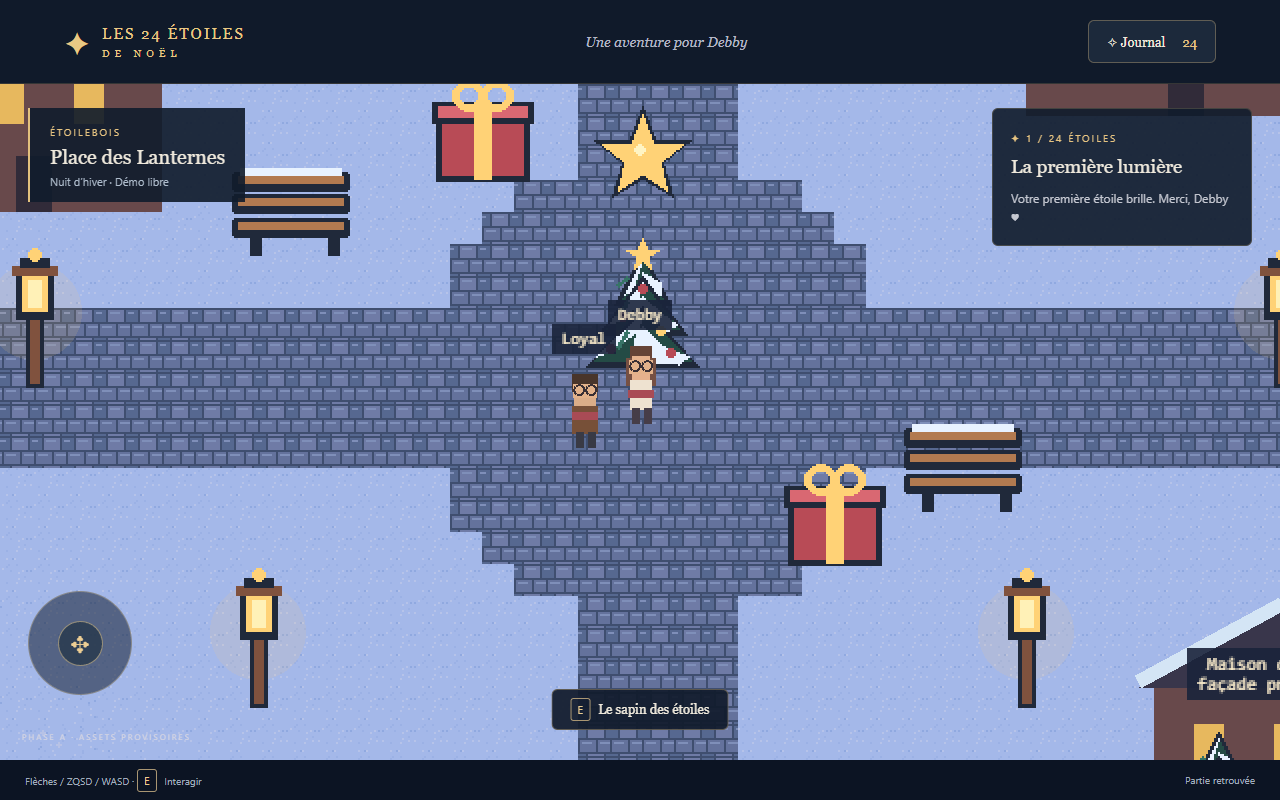
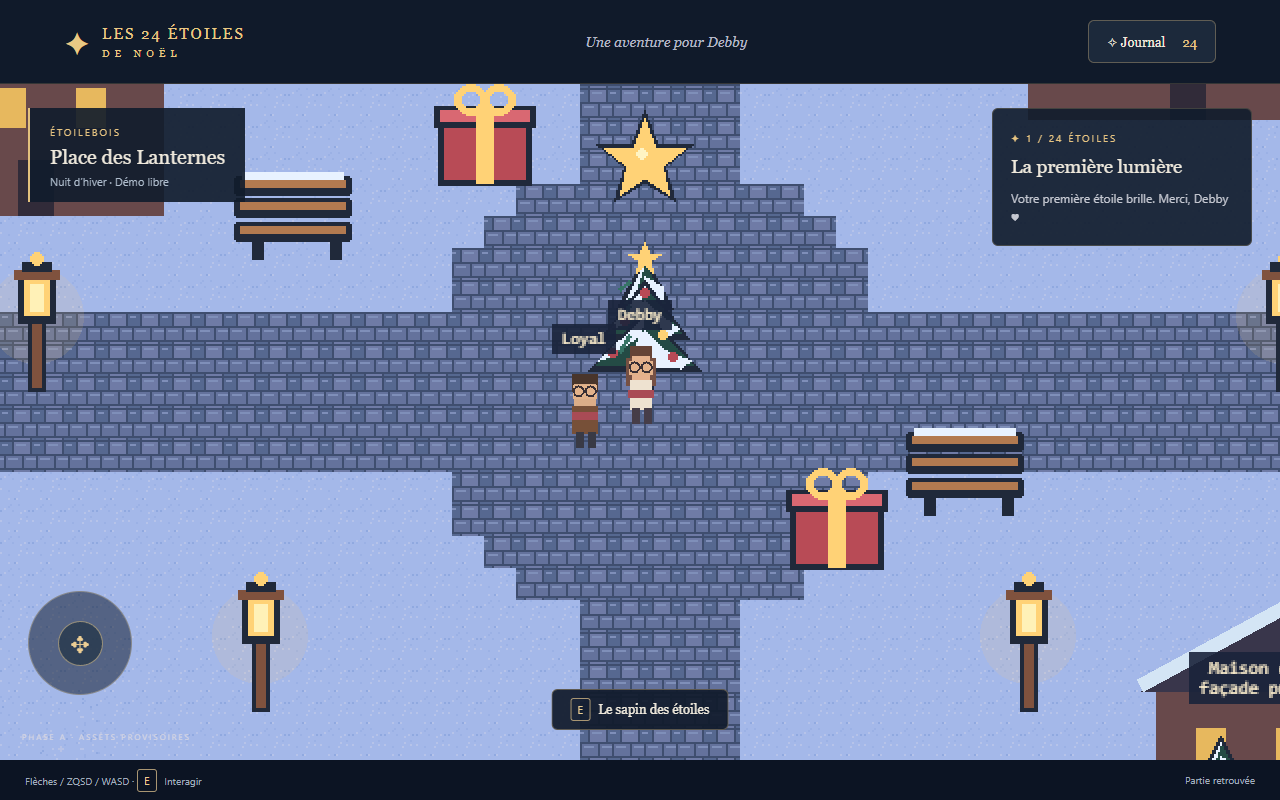
test: drive quest by observed positions across render speeds

diff --git a/tests/e2e/game.spec.ts b/tests/e2e/game.spec.ts
@@ -11,10 +11,25 @@ async function start(page: Page) {
     page.getByRole("button", { name: /Parler à Loyal/ }),
   ).toBeVisible();
 }
-async function walk(page: Page, key: string, ms: number) {
+async function coordinate(page: Page, axis: "x" | "y") {
+  return Number(
+    await page.locator("canvas").getAttribute(`data-player-${axis}`),
+  );
+}
+async function walk(page: Page, key: string, axis: "x" | "y", target: number) {
+  await expect(page.getByRole("dialog")).toHaveCount(0);
+  const direction = ["ArrowDown", "ArrowRight"].includes(key) ? 1 : -1;
   await page.keyboard.down(key);
-  await page.waitForTimeout(ms);
-  await page.keyboard.up(key);
+  try {
+    await expect
+      .poll(async () => direction * ((await coordinate(page, axis)) - target), {
+        timeout: 15000,
+        intervals: [25],
+      })
+      .toBeGreaterThanOrEqual(0);
+  } finally {
+    await page.keyboard.up(key);
+  }
 }
 test("parcours complet, sauvegarde et journal", async ({ page }, info) => {
   const errors: string[] = [];
@@ -24,23 +39,22 @@ test("parcours complet, sauvegarde et journal", async ({ page }, info) => {
   await expect(page.getByRole("dialog")).toContainText("chaque étoile");
   await page.getByRole("button", { name: /Continuer/ }).click();
   // From (512,608): avoid pine at (800,624), approach doorway from below.
-  await walk(page, "ArrowDown", 360);
-  await walk(page, "ArrowRight", 2740);
-  await walk(page, "ArrowUp", 40);
+  await walk(page, "ArrowDown", "y", 646);
+  await walk(page, "ArrowRight", "x", 800);
   await expect(
     page.getByRole("button", { name: /Maison de Loyal/ }),
   ).toBeEnabled();
   await page.keyboard.press("e");
   await expect(page.locator(".location")).toContainText("Maison de Loyal");
-  await walk(page, "ArrowUp", 1130);
+  await walk(page, "ArrowUp", "y", 158);
   await page.keyboard.press("e");
   await expect(page.getByRole("dialog")).toContainText("tu rends même");
   await page.getByRole("button", { name: /Continuer/ }).click();
-  await walk(page, "ArrowDown", 1430);
+  await walk(page, "ArrowDown", "y", 305);
   await page.keyboard.press("e");
   await expect(page.locator(".location")).toContainText("Place des Lanternes");
-  await walk(page, "ArrowLeft", 2740);
-  await walk(page, "ArrowUp", 2220);
+  await walk(page, "ArrowLeft", "x", 512);
+  await walk(page, "ArrowUp", "y", 410);
   await page.keyboard.press("e");
   await expect(page.getByRole("dialog")).toContainText(
     "Notre premier souvenir",
@@ -61,15 +75,15 @@ test("parcours complet, sauvegarde et journal", async ({ page }, info) => {
 });
 test("joystick tactile et absence de débordement", async ({ page }) => {
   await start(page);
-  const before = await page.screenshot();
+  const before = await coordinate(page, "x");
   const stick = page.getByLabel("Joystick de déplacement");
   const r = (await stick.boundingBox())!;
   await page.mouse.move(r.x + 52, r.y + 52);
   await page.mouse.down();
   await page.mouse.move(r.x + 85, r.y + 52);
-  await page.waitForTimeout(700);
+  await expect.poll(() => coordinate(page, "x")).toBeGreaterThan(before + 30);
   await page.mouse.up();
-  expect(await page.screenshot()).not.toEqual(before);
+  expect(await coordinate(page, "x")).toBeGreaterThan(before + 30);
   expect(
     await page.evaluate(
       () => document.documentElement.scrollWidth <= innerWidth,

diff --git a/src/game/Game.ts b/src/game/Game.ts
@@ -394,6 +394,10 @@ export class Village extends Phaser.Scene {
       label.setPosition(p.x, p.y - 46).setDepth(p.y + 80);
     }
     this.target = this.dialogue ? "Continuer" : (this.nearest()?.name ?? "");
+    // Read-only diagnostics let browser tests observe real movement without
+    // changing positions or bypassing gameplay, regardless of rendering speed.
+    this.game.canvas.dataset.playerX = String(this.player.x);
+    this.game.canvas.dataset.playerY = String(this.player.y);
     this.emit();
   }
 }

diff --git a/docs/TESTS.md b/docs/TESTS.md
@@ -13,11 +13,11 @@ Exécution locale le 3 novembre 2026, Windows, Node.js 24.14.0, Chrome headless.
 
 Unitaires : progression ordonnée et idempotence ; collisions et glissement ; visibilité interdisant l’interaction à travers un mur ; validation des 3 072 tuiles ; rejet de sauvegardes invalides ; aller-retour IndexedDB ; régression garantissant que seuls x/y sont copiés depuis un objet Phaser.
 
-E2E : le joueur ferme l’accueil, parle à Loyal, se déplace à la porte de sa maison, entre, rejoint et lit la lettre, ressort, revient au sapin, place l’étoile, recharge la page et retrouve la progression. Le journal contient 24 cases. Le second parcours utilise le joystick et vérifie un changement du rendu et l’absence de débordement horizontal. Aucun raccourci de quête ni téléportation de test n’est utilisé.
+E2E : le joueur ferme l’accueil, parle à Loyal, se déplace à la porte de sa maison, entre, rejoint et lit la lettre, ressort, revient au sapin, place l’étoile, recharge la page et retrouve la progression. Le journal contient 24 cases. Les déplacements au clavier attendent les coordonnées réellement atteintes, exposées en lecture seule sur le canvas. Le second parcours utilise le joystick et vérifie un déplacement réel et l’absence de débordement horizontal. Aucun raccourci de quête ni téléportation de test n’est utilisé.
 
 ## Corrections pendant la validation
 
-La copie d’un objet Phaser par décomposition introduisait sa scène dans les données de position et faisait échouer `structuredClone`. Le déplacement construit désormais une position composée uniquement de nombres. Un test de régression couvre ce défaut. Les tests attendent aussi la fermeture effective des dialogues avant l’interaction suivante.
+La copie d’un objet Phaser par décomposition introduisait sa scène dans les données de position et faisait échouer `structuredClone`. Le déplacement construit désormais une position composée uniquement de nombres. Un test de régression couvre ce défaut. Les tests attendent aussi la fermeture effective des dialogues avant l’interaction suivante. La première CI Linux a révélé la fragilité des déplacements testés avec des durées fixes ; les tests attendent désormais les coordonnées atteintes sans modifier le jeu.
 
 ## Limites
 
